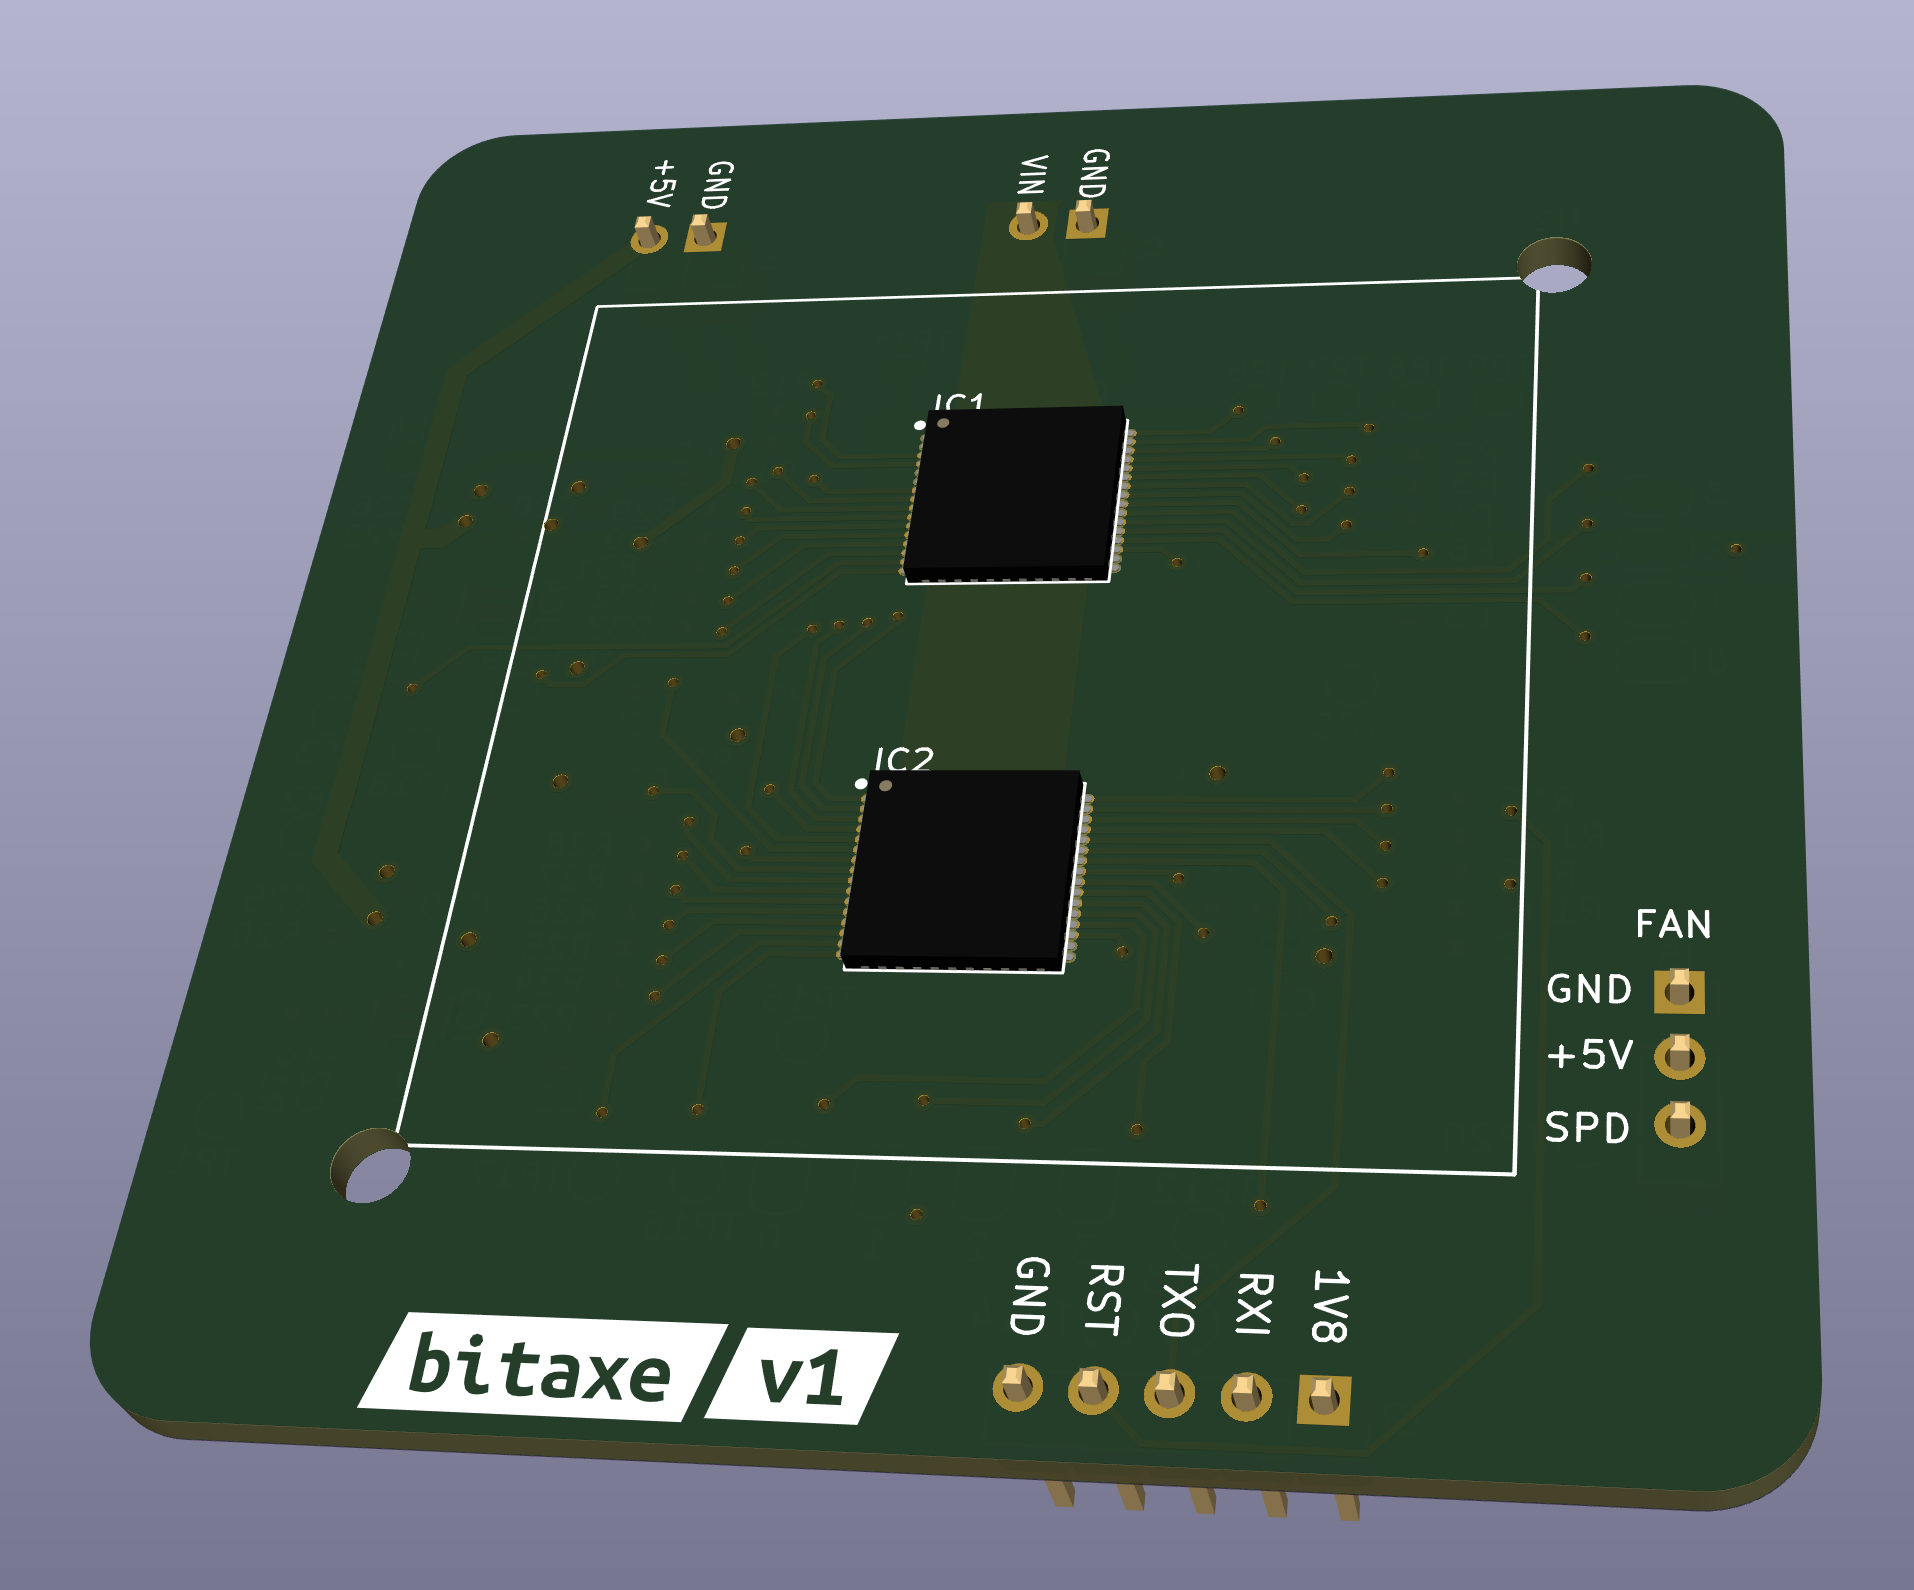
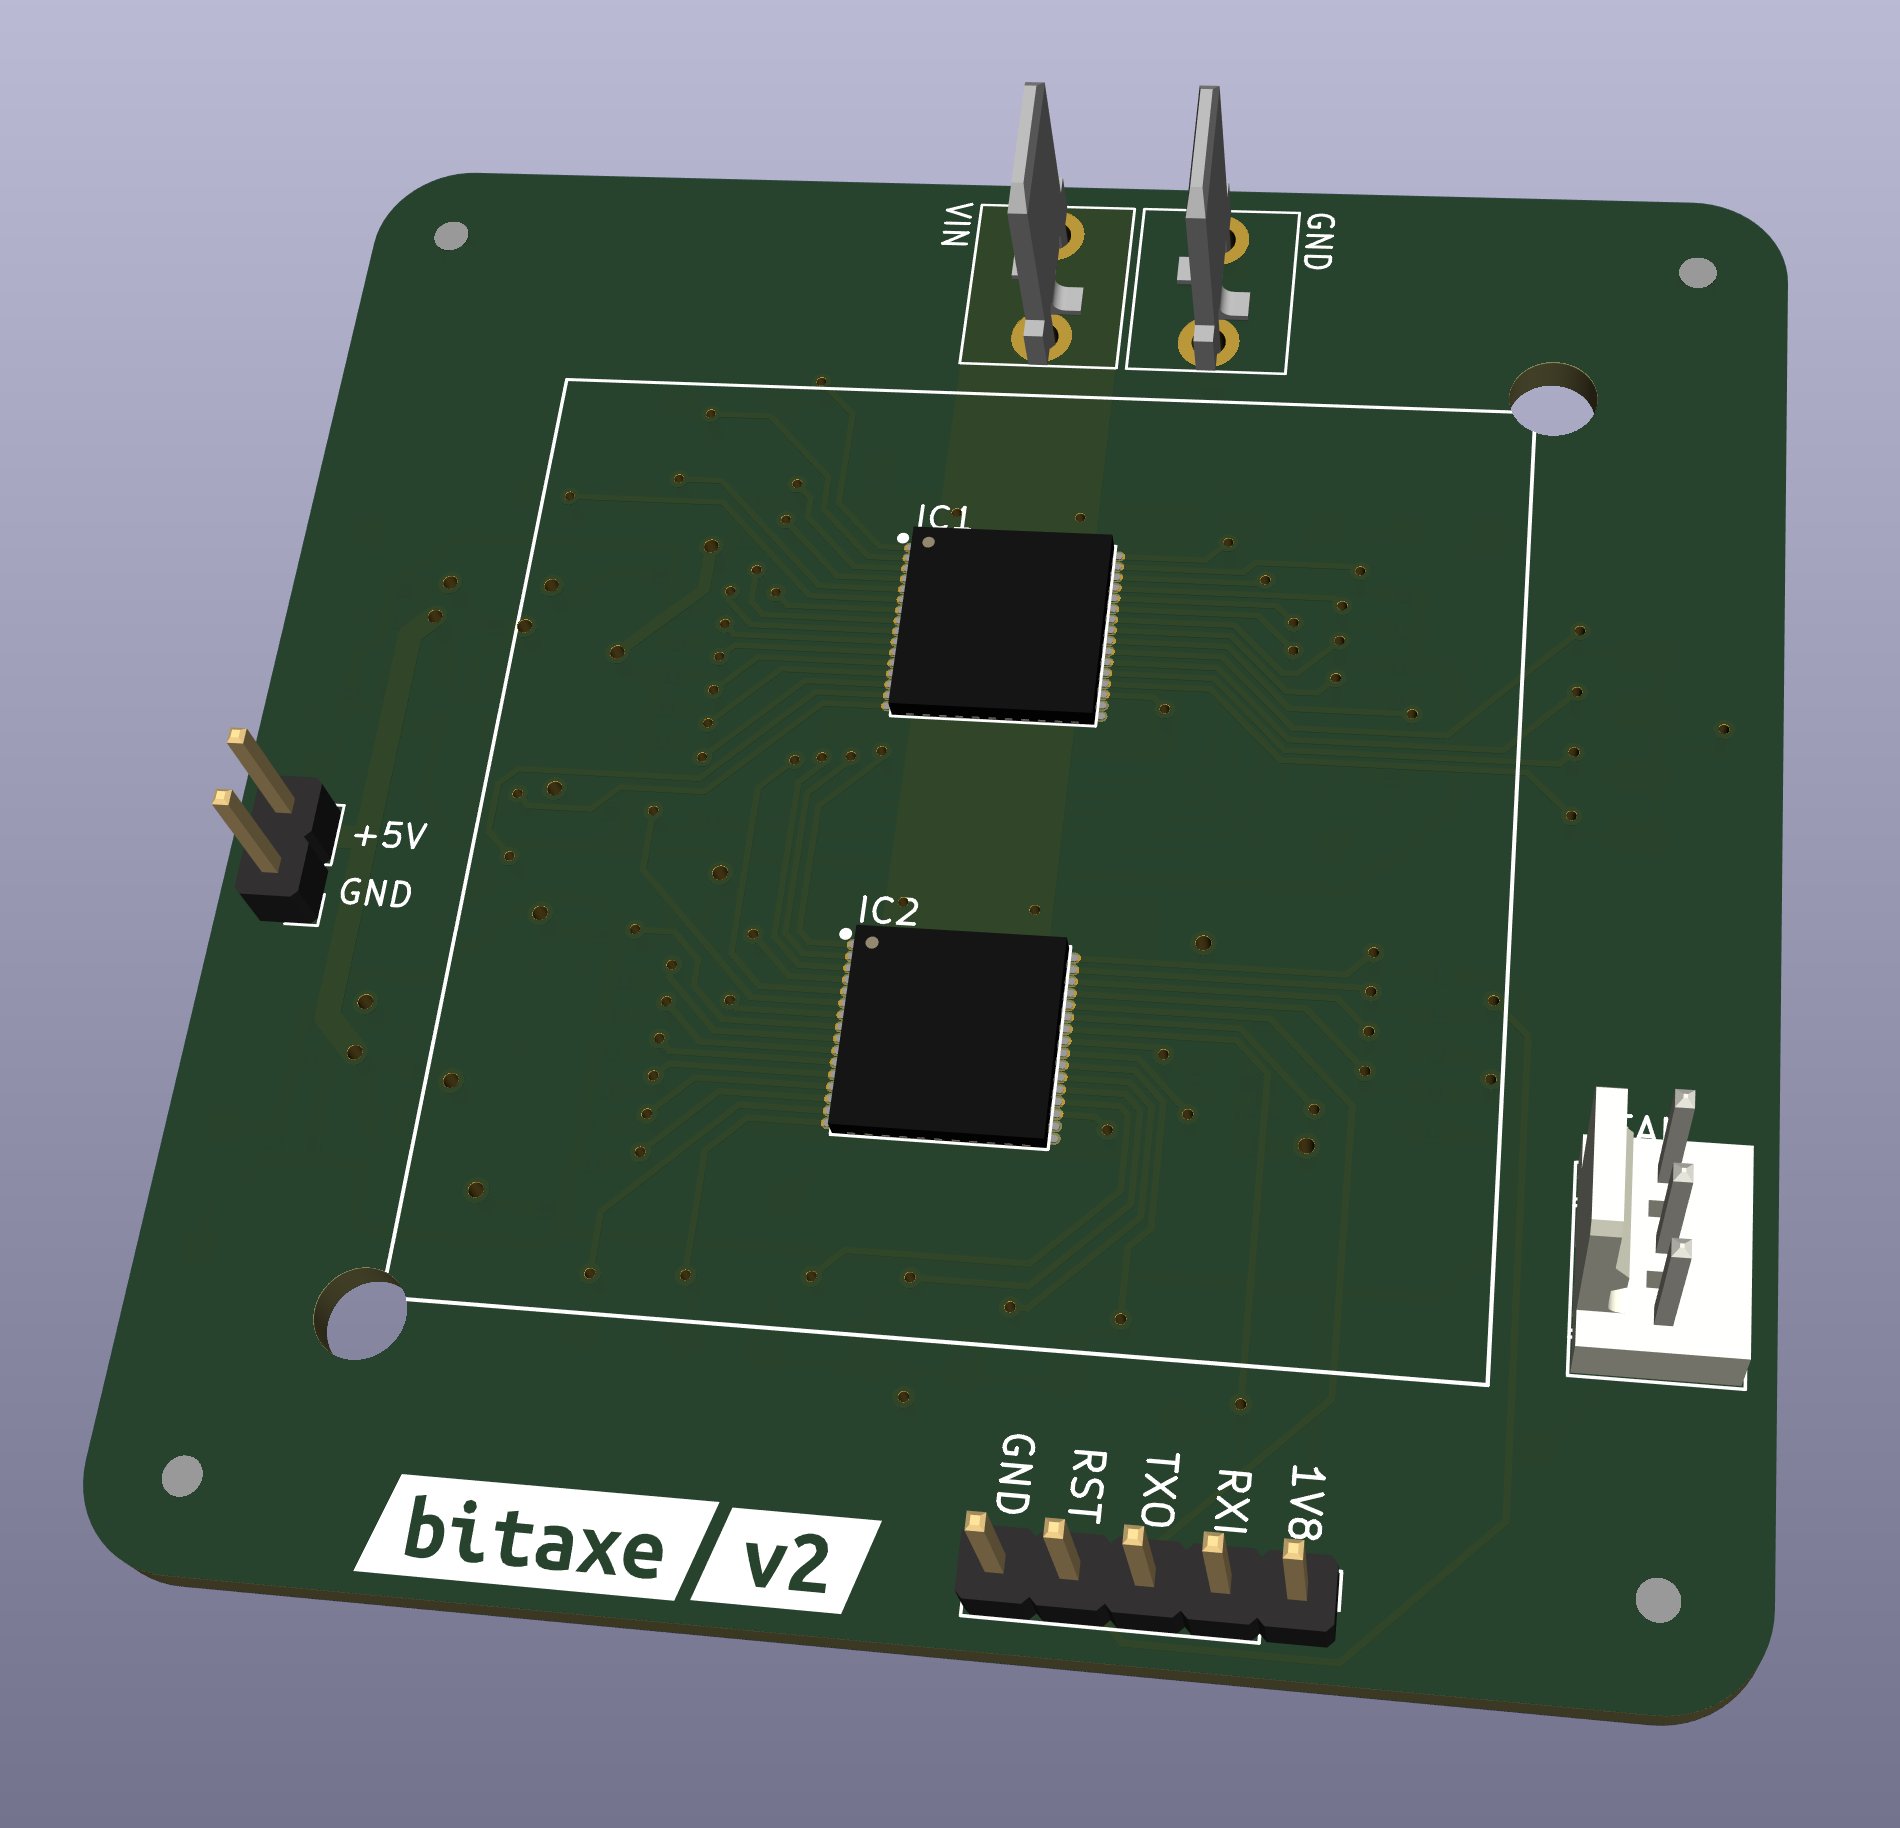
readme update

diff --git a/readme.md b/readme.md
@@ -1,8 +1,6 @@
-**EEP! pin pitch on the BM1387 footprint is wrong!!** Don't make this board until this gets sorted. see issue [#5](https://github.com/skot/bitaxe/issues/5)
-
 # The bitaxe
 ![](doc/assembled.png)
-an experimental bitcoin mining machine. Uses 2x Bitmain BM1387 ASICs. Should be able to hash at around 130GH/s. Needs a lot of work!
+an early-stage experimental bitcoin mining machine. Uses two Bitmain BM1387 ASICs.
 
 ## BM1387
 ![bm1387 pic](doc/bm1387.png)
@@ -12,7 +10,11 @@ an experimental bitcoin mining machine. Uses 2x Bitmain BM1387 ASICs. Should be 
 - The BM1387 is available for around $1-2 each in low quantities from Aliexpress
 
 ## Current Status
-- I have built 2 of these.
+- I have built several v1 PCBs
+- v1 has a problem with the pin pitch on the BM1387 footprint.
+    - it's very unlikely *all* of the pins were making contact.
+    - this has been corrected on v2, but not verified yet. Still waiting for PCBs to arrive.
+- The voltages all appear to be right
 - I can't get any response over serial from the BM1387s yet.
 - The current comsumption does change like I would expect when I send a serial command to change the frequency.
 
@@ -20,6 +22,9 @@ an experimental bitcoin mining machine. Uses 2x Bitmain BM1387 ASICs. Should be 
 - [BM1387B from random AliExpress seller](https://www.aliexpress.com/item/2251832867687077.html). Do these work?? Who knows!
 - [40x40mm heatsink and 5V fan](https://www.aliexpress.com/item/2251832861666365.html) from a random AliExpress seller. At least half of these arrived broken in some way. But they are cheap and the working ones do keep the BM1387's nice and cool when used with some thermal compound.
 - The serial port is 1.8V. The [FTDI TTL-232RG-VREG1V8-WE](https://www.digikey.com/en/products/detail/ftdi,-future-technology-devices-international-ltd/TTL-232RG-VREG1V8-WE/2441359) USB adapter does the trick, although it's pretty expensive.
+- [jim.sh Micro1v8 FT230X](https://www.amazon.com/dp/B076B9YRMP) adapters also work.
+- Neither the FTDI cable or the jim.sh adapter breakout any of the CBUS pins that could be used for the reset line.
+    - for that I'm going to try the [UMFT231XE-01](https://www.digikey.com/en/products/detail/ftdi-future-technology-devices-international-ltd/UMFT231XE-01/4487117) breakout board.
 - [KiCad 6](https://www.kicad.org) design files
 - All of the parts on the board are listed in the KiCad BOM
 
@@ -31,14 +36,14 @@ Check my [BM1387 Scripts](https://github.com/skot/bm1387_scripts)!
 
 | Pin Name     | Description |
 | ----------- | ----------- |
-| VIN      | ASIC VIN - powers both ASICs in series. Should be around 1.6V for 0.8V at each ASIC. Will need at least 3A, maybe more! This needs more experimentation.       |
+| VIN      | ASIC VIN - powers both ASICs in series. Should be around 0.9V for 0.450V at each ASIC. Will need at least 3A, maybe more! This needs more experimentation.       |
 | +5V   | 5V input gets regulated to 1.8V and 0.8V for the BM1387. Also 5V for Fan output. Not much current required.        |
 | +5V (Fan)   | 5V output for fan        |
 | SPD (Fan)   | Speed input from fan. Doesn't currently go anywhere        |
 | 1V8   | 1.8V output. regulated from 5V. Use as a IO reference, or leave unconnected.       |
 | RXI   | 1.8V Serial input        |
 | TXO   | 1.8V Serial output        |
-| RST   | Inverted reset pin to the first BM1387. Unsure what to use this for.        |
+| RST   | Inverted reset pin to the first BM1387. Unsure how necessary this is.        |
 | GND   | Common ground        |
 
 ## Goals
@@ -46,4 +51,4 @@ Check my [BM1387 Scripts](https://github.com/skot/bm1387_scripts)!
 - Connect up the BM1387 internal temperature to the onboard microcontroller.
 - Connect up the fan speed sensor to the onboard microcontroller.
 - Develop some software in Rust to getblocktemplate from a bitcoin node and communicate work to a fleet of bitaxes.
-- add an onboard power sensor
+- add an onboard power sensor so we can set the hashrate (ASIC requency) and therefore current to extract maximum power from a solar panel.
